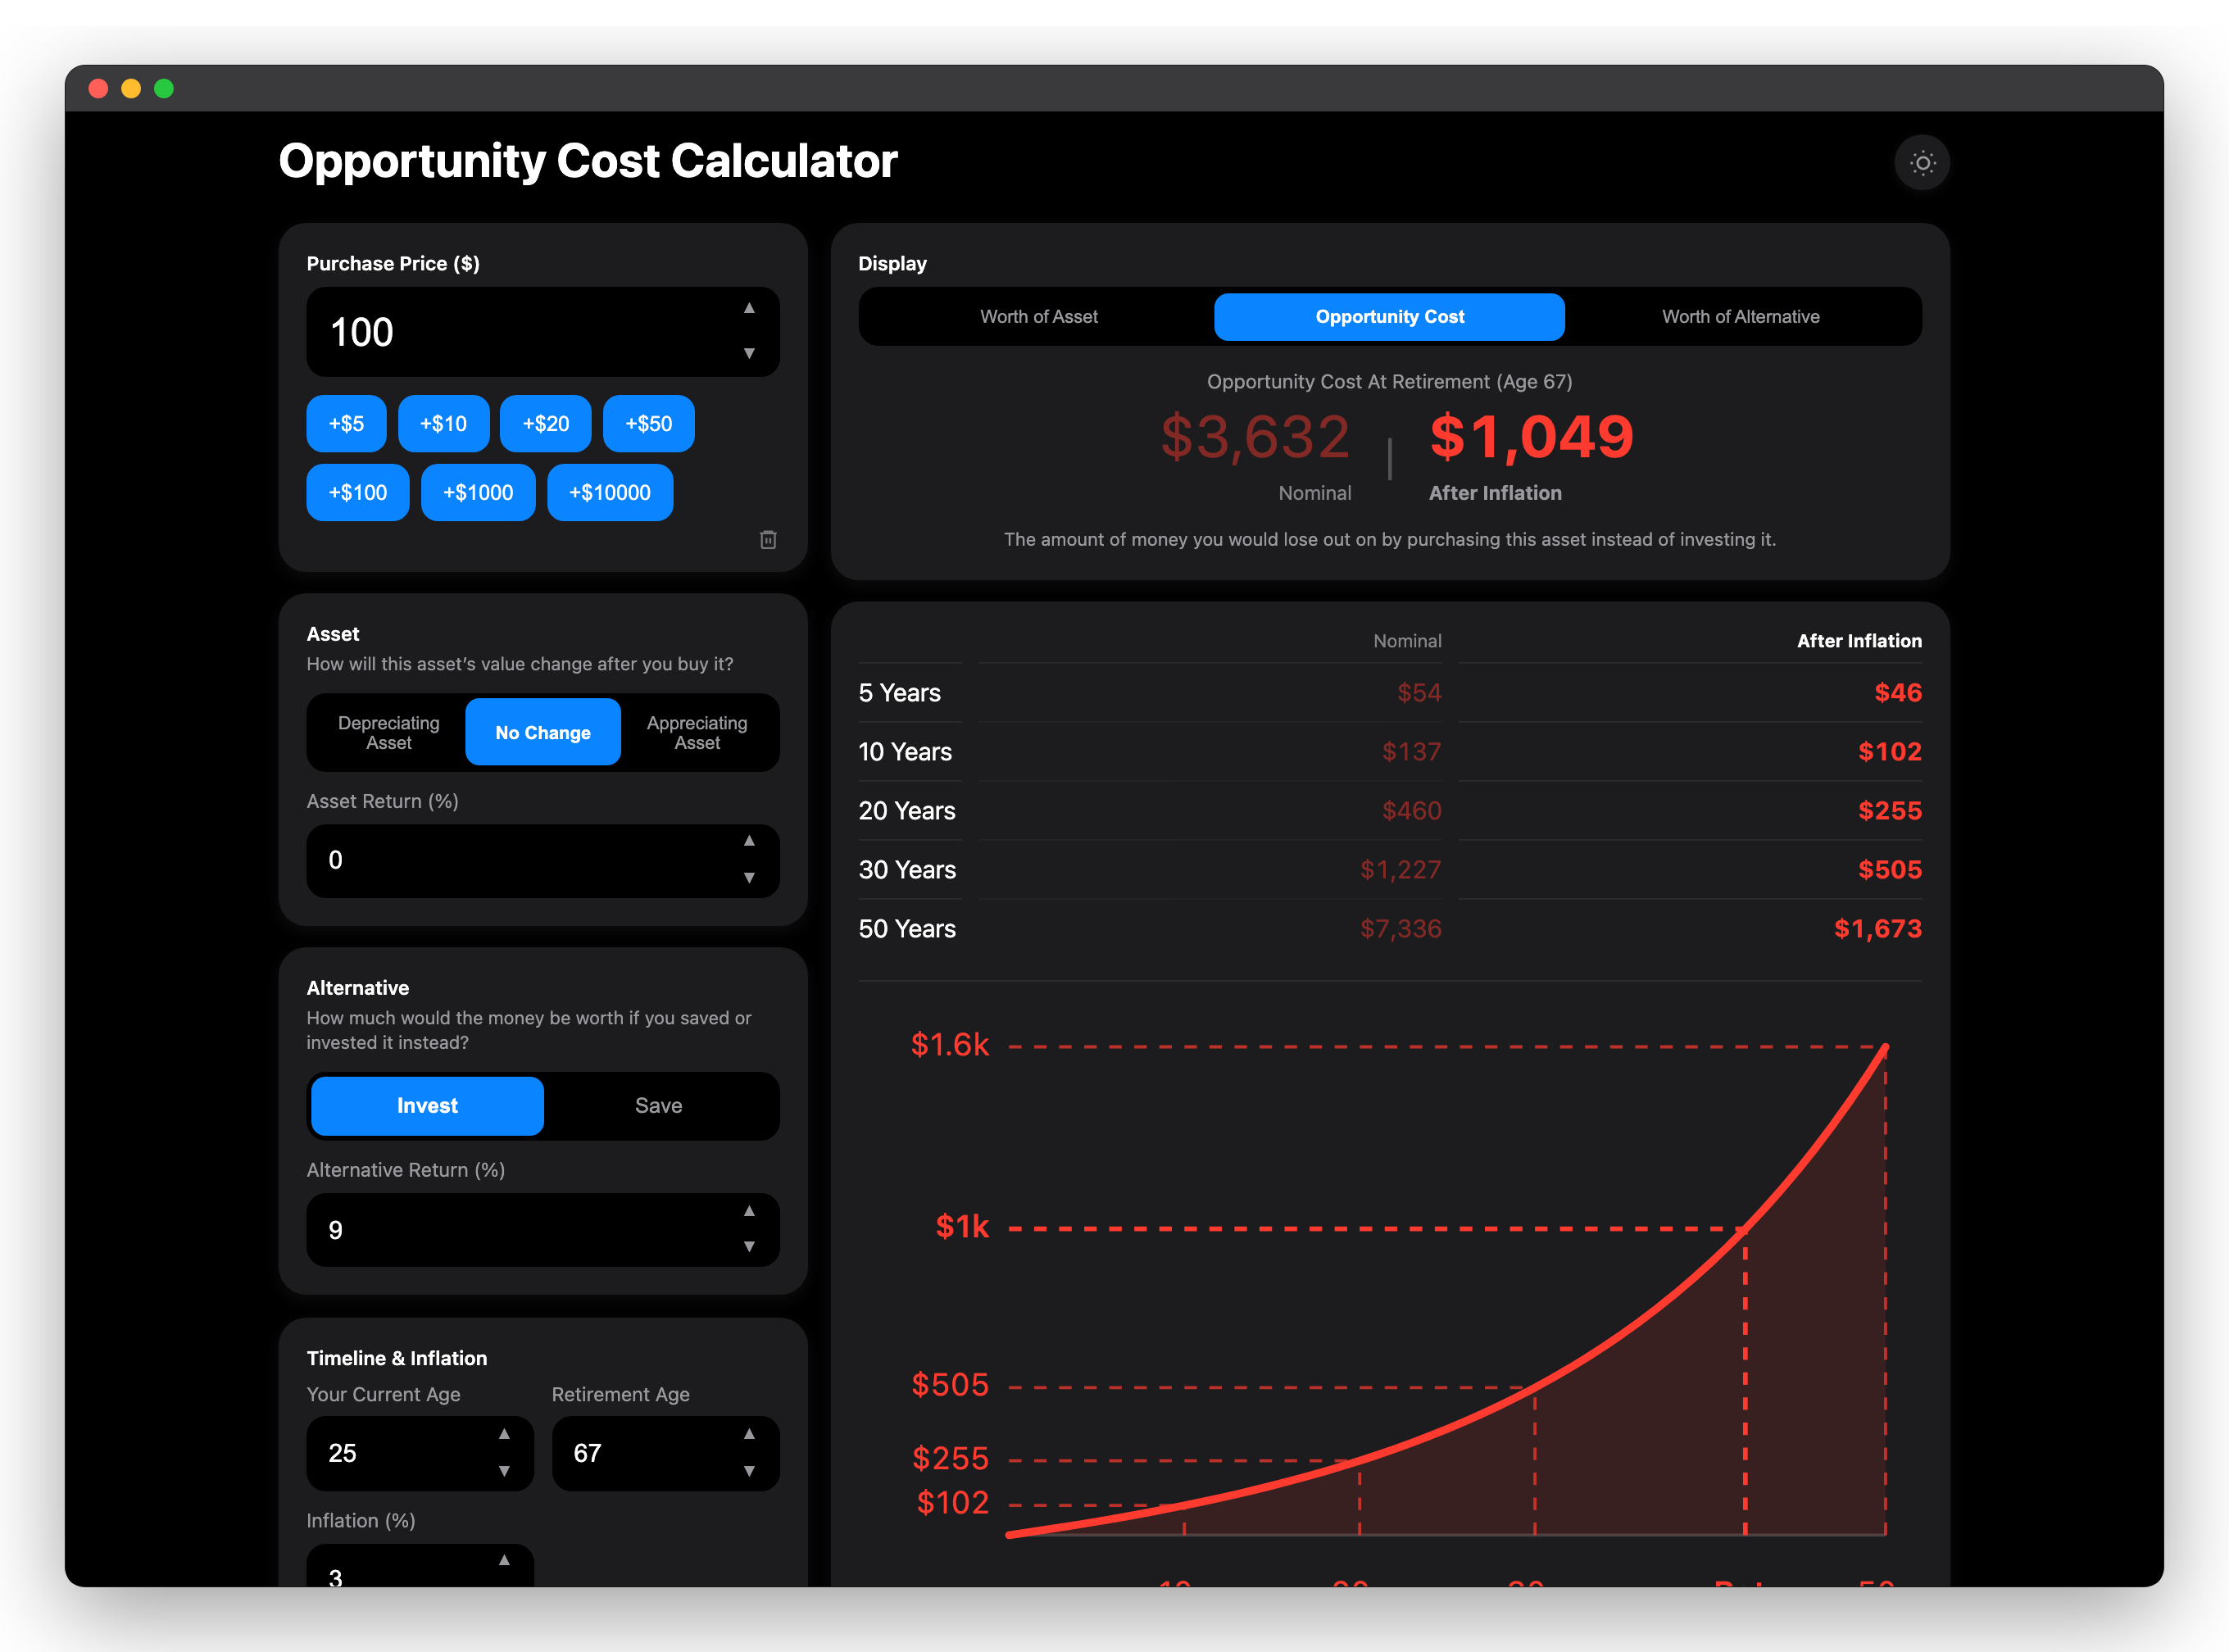
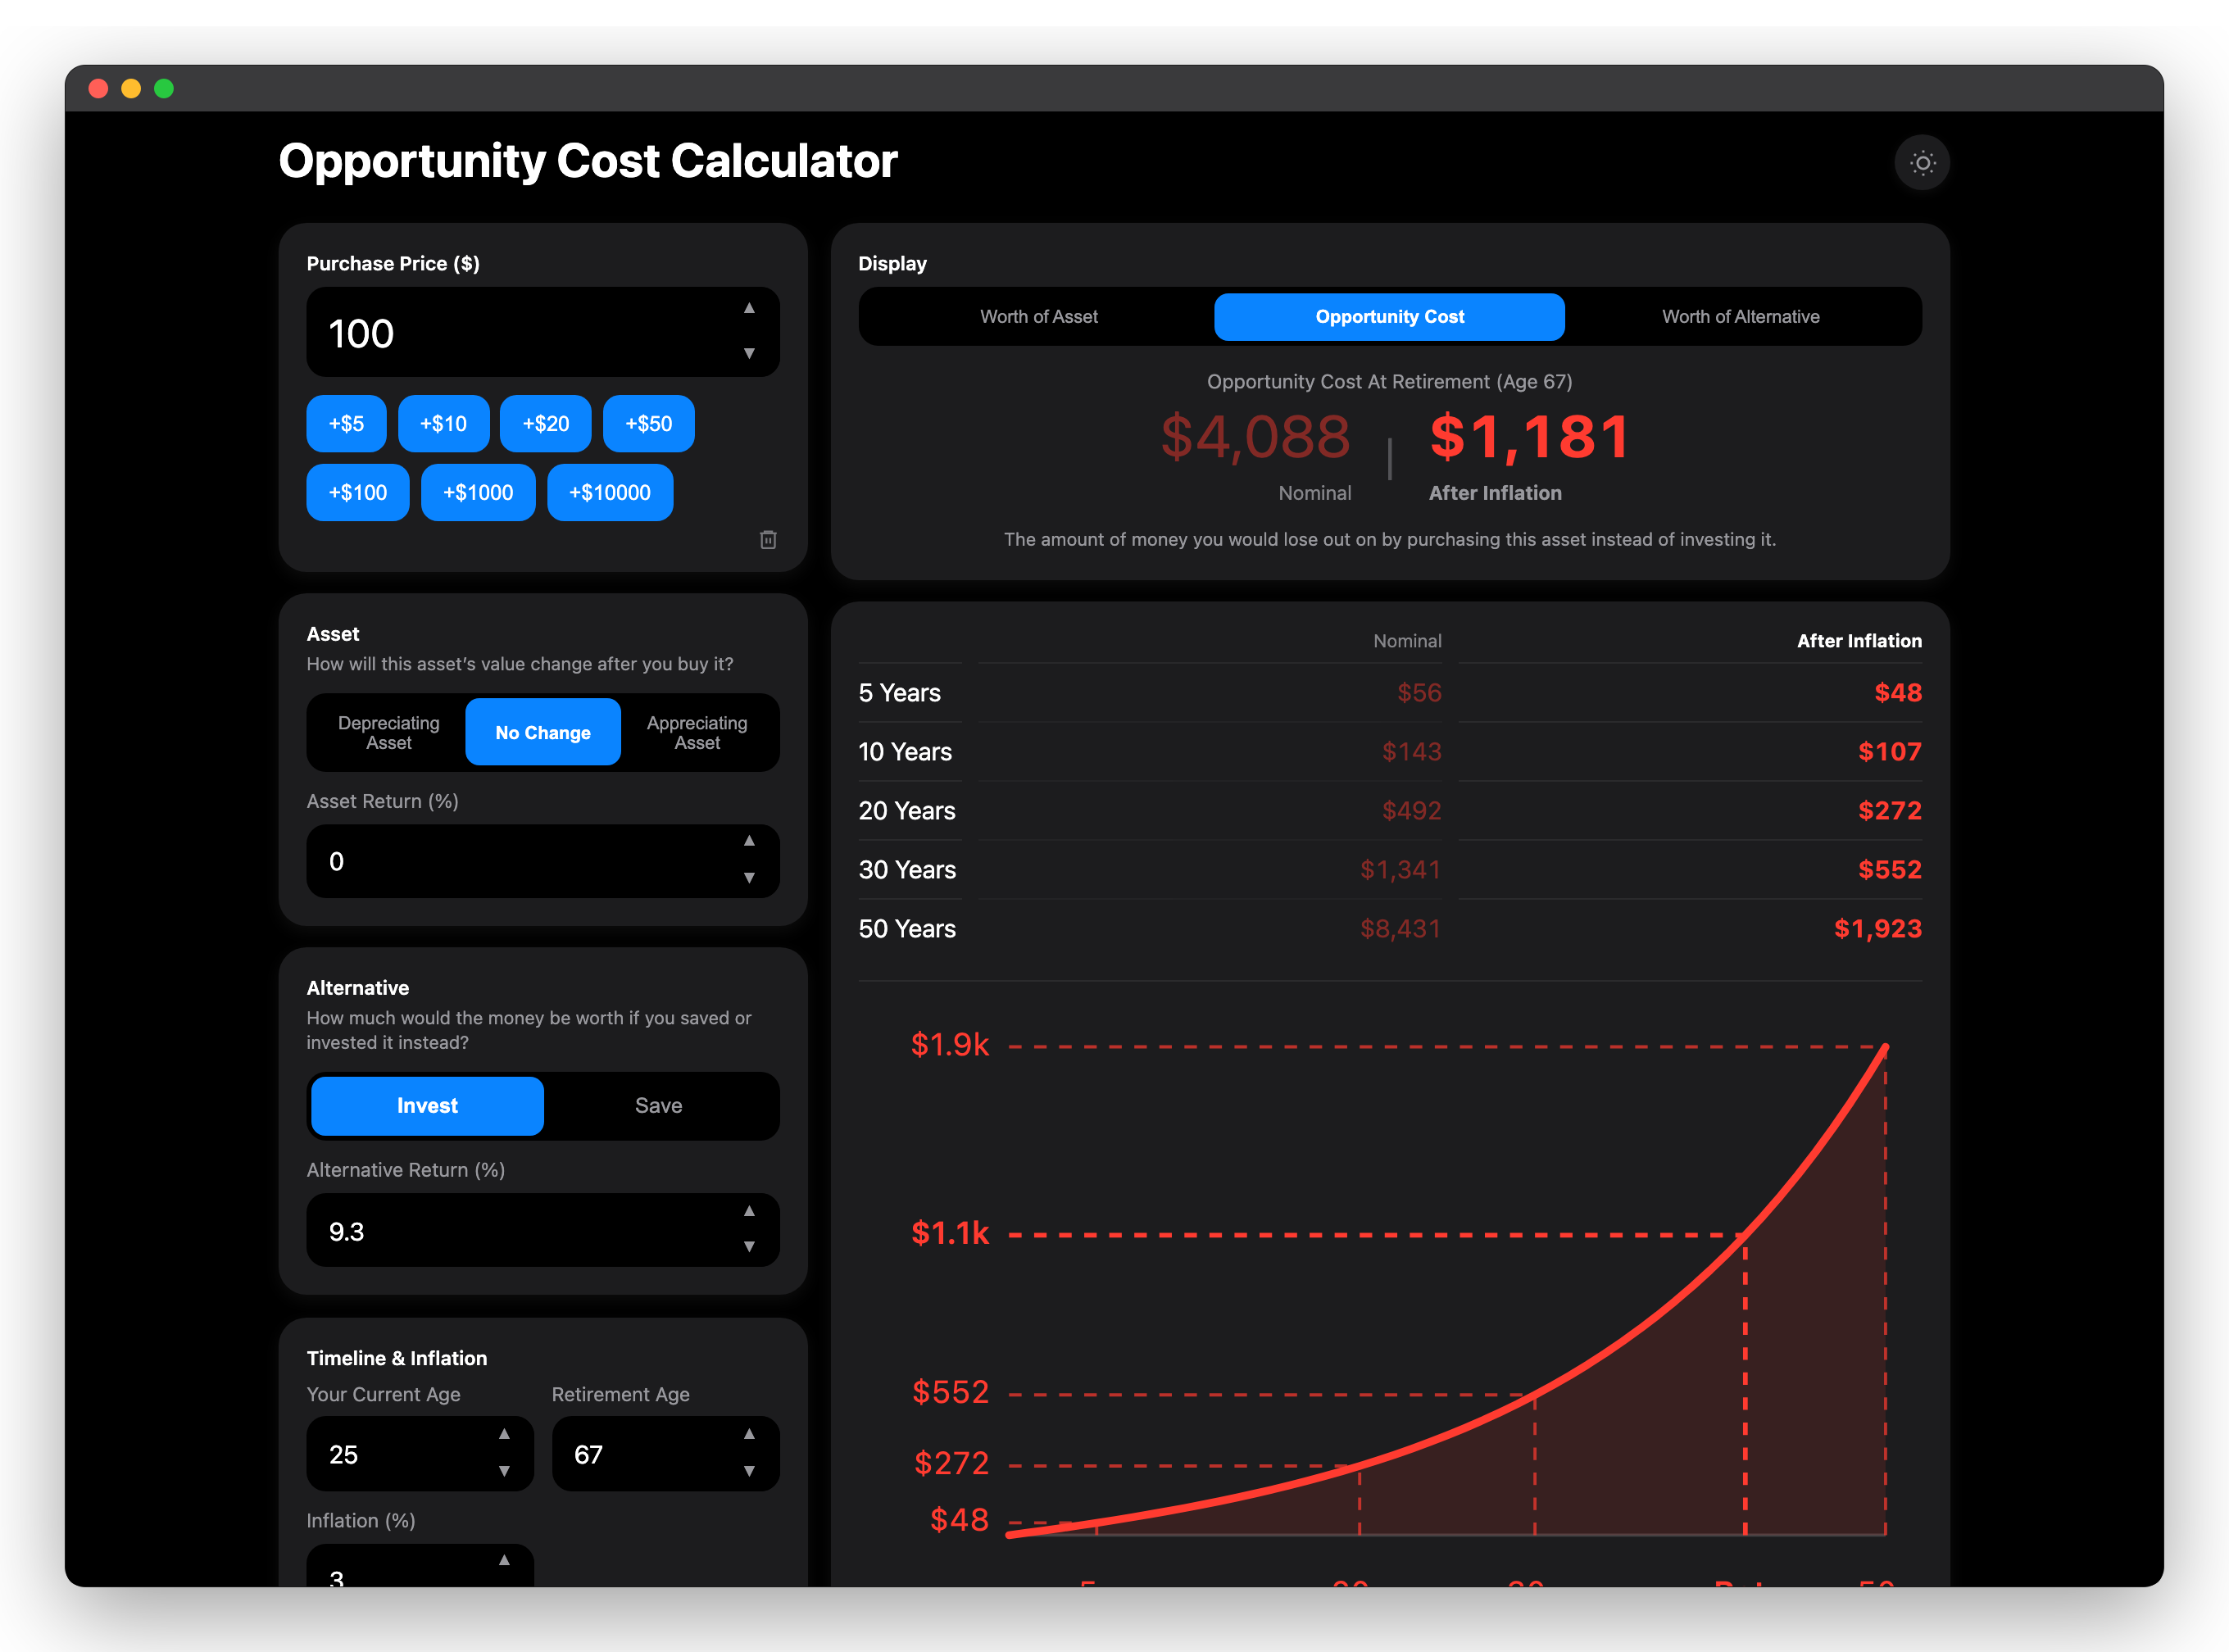
Release v1.26: Updated default rates.

diff --git a/publish/index.html b/publish/index.html
@@ -11,7 +11,7 @@
 <meta name="theme-color" content="#f2f2f7">
 <meta
     name="description"
-    content="Free opportunity cost calculator. Compare a purchase against investing or saving instead — projections to retirement, inflation-adjusted, private and offline."
+    content="Free opportunity cost calculator. Compare a purchase against investing or saving instead — inflation-adjusted projections to your retirement age (default 67). Private, installable PWA; works offline after first visit."
 >
 <meta name="robots" content="index, follow">
 <meta name="author" content="logwet">
@@ -22,11 +22,12 @@
 <link rel="sitemap" type="application/xml" href="./sitemap.xml">
 
 <meta property="og:type" content="website">
+<meta property="og:locale" content="en">
 <meta property="og:site_name" content="Opportunity Cost Calculator">
 <meta property="og:title" content="Opportunity Cost Calculator">
 <meta
     property="og:description"
-    content="Should you buy it? Compare a purchase price to investing or saving the money instead — projections to retirement, inflation-adjusted."
+    content="Should you buy it? Compare a purchase to investing or saving the money instead — inflation-adjusted projections to retirement. Free, private, installable, offline-capable."
 >
 <meta property="og:url" content="https://logwet.github.io/opportunity-cost/">
 <meta
@@ -35,17 +36,19 @@
 >
 <meta property="og:image:width" content="512">
 <meta property="og:image:height" content="512">
+<meta property="og:image:alt" content="Opportunity Cost Calculator app icon">
 
 <meta name="twitter:card" content="summary">
 <meta name="twitter:title" content="Opportunity Cost Calculator">
 <meta
     name="twitter:description"
-    content="Free calculator: compare a purchase vs investing or saving. Projections to your retirement age, inflation-adjusted, private PWA."
+    content="Free calculator: compare a purchase vs investing or saving. Inflation-adjusted projections to your retirement age. Private PWA — no account, no telemetry."
 >
 <meta
     name="twitter:image"
     content="https://logwet.github.io/opportunity-cost/icons/icon-512.png"
 >
+<meta name="twitter:image:alt" content="Opportunity Cost Calculator app icon">
 
 <title>Opportunity Cost Calculator</title>
 
@@ -54,24 +57,33 @@
     "@context": "https://schema.org",
     "@type": "WebApplication",
     "name": "Opportunity Cost Calculator",
-    "description": "Compare what a purchase could be worth over time against investing or saving the money instead. Inflation-adjusted projections to a configurable retirement age (default 67).",
+    "description": "Compare what a purchase could be worth over time against investing or saving the money instead. Inflation-adjusted projections to a configurable retirement age (default 67, Australian preservation age). Currency-agnostic; runs entirely in the browser with no account or server.",
     "url": "https://logwet.github.io/opportunity-cost/",
     "applicationCategory": "FinanceApplication",
     "operatingSystem": "Any",
     "browserRequirements": "Requires JavaScript",
     "inLanguage": "en",
     "isAccessibleForFree": true,
+    "softwareVersion": "__INJECT_APP_VERSION__",
+    "creator": {
+        "@type": "Person",
+        "name": "logwet",
+        "url": "https://github.com/logwet"
+    },
     "offers": {
         "@type": "Offer",
-        "price": "0"
+        "price": "0",
+        "priceCurrency": "USD"
     },
     "featureList": [
         "Purchase vs invest or save comparison",
-        "Asset depreciation and appreciation",
-        "Inflation-adjusted projections",
+        "Asset depreciation, flat value, and appreciation",
+        "Inflation-adjusted nominal and real projections",
         "Configurable retirement age (default 67)",
-        "Offline installable PWA",
-        "Private on-device storage"
+        "Saved projections log with search",
+        "Installable offline PWA",
+        "Private on-device storage; no telemetry",
+        "Light and dark mode"
     ]
 }
 </script>
@@ -1717,7 +1729,7 @@ input[type="search"].small-input {
         id="returnRate"
         class="small-input"
         type="number"
-        value="9"
+        value="9.3"
         step="0.01"
         inputmode="decimal"
         data-stepper-step="1"
@@ -2115,8 +2127,8 @@ const DEFAULT_RETIREMENT_AGE = 67;
 const DEFAULT_CURRENT_AGE = 25;
 const MIN_CURRENT_AGE = 1;
 const MAX_AGE = 120;
-const DEFAULT_INVEST_RETURN = 9;
-const DEFAULT_SAVE_RETURN = 3.2;
+const DEFAULT_INVEST_RETURN = 9.3;
+const DEFAULT_SAVE_RETURN = 3.24;
 const DEFAULT_DEPRECIATING_RETURN = -5;
 const DEFAULT_FLAT_RETURN = 0;
 const DEFAULT_APPRECIATING_RETURN = 5;
@@ -2238,9 +2250,9 @@ const UI_TOOLTIPS = {
     retirementAge:
         'Target age for retirement projections (default 67, Australian preservation age). Must be at least your current age and no more than 120.',
     modeInvest:
-        'Compare against investing in growth assets. Default alternative return is 9%.',
+        'Compare against investing in growth assets. Default alternative return is 9.3%.',
     modeSave:
-        'Compare against saving in low-risk accounts. Default alternative return is 3.2%.',
+        'Compare against saving in low-risk accounts. Default alternative return is 3.24%.',
     returnRate:
         'Expected annual return for the selected alternative (Invest or Save). After-inflation results use this together with the inflation rate.',
     inflationRate: